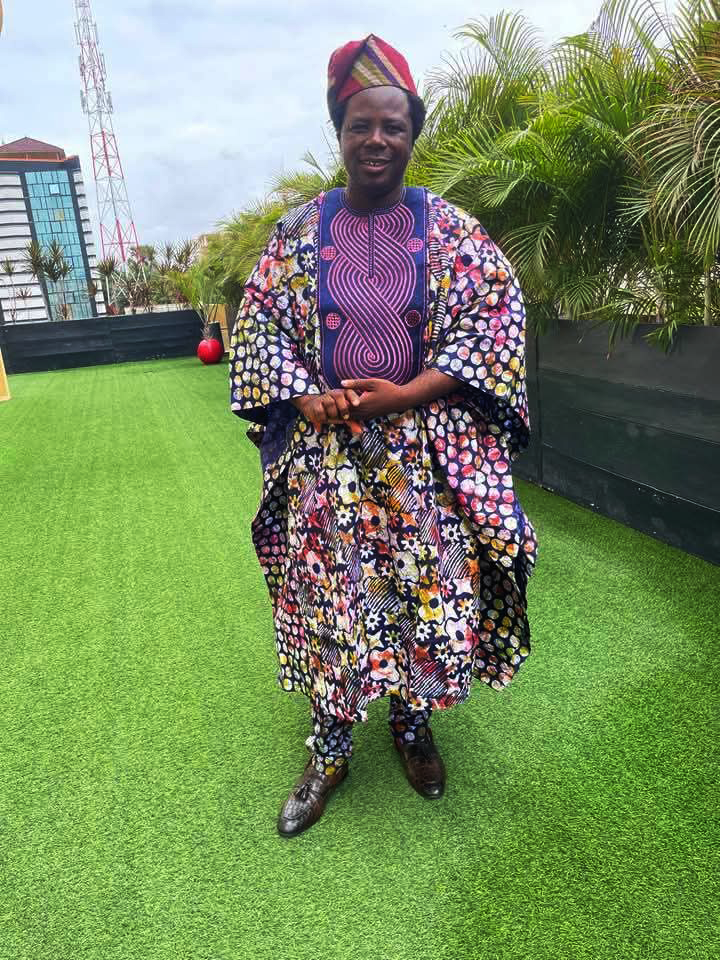
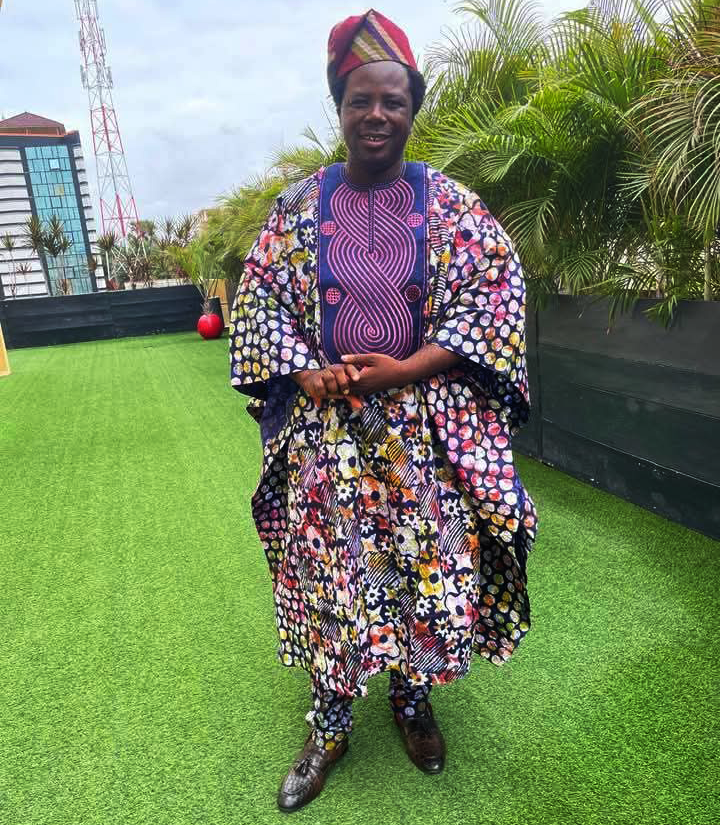
finishing touches complete ecept send message and social media links

diff --git a/index.html b/index.html
@@ -12,6 +12,7 @@
     <link rel="stylesheet" href="styles/experience.css">
     <link rel="stylesheet" href="styles/projects.css">
     <link rel="stylesheet" href="styles/skills.css">
+        <link rel="stylesheet" href="styles/about.css">
     <link rel="stylesheet" href="styles/contact.css">
     <link rel="stylesheet" href="styles/footer.css">
     <link rel="stylesheet" href="styles/animations.css">
@@ -67,13 +68,11 @@
 
   <div class="overall-container">
 
-       <!--IMAGE AND ABOUT-->
-
        <!-- Hero Section -->
        <section id="hero" class="hero-section">
             <div class="hero-content">
                 <div class="hero-image">
-                    <img src="datas/personal/main.jpg" alt="Dr. Hon. Olusola Akinbode">
+                    <img src="datas/personal/main-nobg.png" alt="Dr. Hon. Olusola Akinbode">
                 </div>
                 <div class="hero-text">
                     <h1>Dr. Hon. Olusola Akinbode, Ph.D</h1>
@@ -324,7 +323,7 @@
                             <img src="datas/key-activities/june2025-african-borderday-celerbation3.png" alt="African Border Day">
                         </div>
                         <div class="image-container">
-                            <img src="datas/key-activities/june2025-african-borderday-celerbation4.png" alt="African Border Day">
+                            <img src="datas/key-activities/june2025-african-borderday-celerbation6.png" alt="African Border Day">
                         </div>
                     </div>
                     <p class="activity-description">In June this year, Dr Olusola Akinbode participated at the 2025 African Border Day Celebration and also had the privilege of speaking on behalf of all Chairmen whose local government shares border with international countries in Nigeria.</p>

diff --git a/styles/shared.css b/styles/shared.css
@@ -1,6 +1,7 @@
 /* Common Section Styles */
 .section {
-    padding: 5rem 0;
+    padding: 3em 0;
+    /*background-color: #1a1a2e;*/
 }
 
 .section-title {
@@ -32,77 +33,4 @@
 @keyframes glow {
     0%, 100% { opacity: 0.5; }
     50% { opacity: 1; }
-}
-
-/* About Stats */
-.about-content {
-    max-width: 800px;
-    margin: 0 auto;
-}
-
-.bio-container {
-    display: flex;
-    align-items: center;
-    gap: 3rem;
-    margin-bottom: 3rem;
-}
-
-.bio-image {
-    flex: 0 0 300px;
-    border-radius: 20px;
-    overflow: hidden;
-    box-shadow: 0 10px 30px rgba(0, 0, 0, 0.1);
-}
-
-.bio-image img {
-    width: 100%;
-    height: auto;
-    transition: transform 0.4s ease;
-}
-
-.bio-image:hover img {
-    transform: scale(1.05);
-}
-
-.bio {
-    flex: 1;
-    text-align: left;
-    font-size: 1.1rem;
-    line-height: 1.6;
-}
-
-@media (max-width: 768px) {
-    .bio-container {
-        flex-direction: column;
-        text-align: center;
-    }
-    
-    .bio-image {
-        flex: 0 0 auto;
-        max-width: 250px;
-        margin: 0 auto;
-    }
-    
-    .bio {
-        text-align: center;
-    }
-}
-
-.quick-stats {
-    display: grid;
-    grid-template-columns: repeat(3, 1fr);
-    gap: 2rem;
-    text-align: center;
-}
-
-.stat-item h3 {
-    font-size: 2.5rem;
-    color: #8670ef;
-    margin-bottom: 0.5rem;
-}
-
-@media (max-width: 840px) {
-    .quick-stats {
-        grid-template-columns: repeat(1, 1fr);
-    }
 }

diff --git a/styles/about.css b/styles/about.css
@@ -26,3 +26,76 @@
     margin-bottom: 0.5rem;
 }
 
+
+/* About Stats */
+.about-content {
+    max-width: 800px;
+    margin: 0 auto;
+}
+
+.bio-container {
+    display: flex;
+    align-items: center;
+    gap: 3rem;
+    margin-bottom: 3rem;
+}
+
+.bio-image {
+    flex: 0 0 300px;
+    border-radius: 20px;
+    overflow: hidden;
+    box-shadow: 0 10px 30px rgba(0, 0, 0, 0.1);
+}
+
+.bio-image img {
+    width: 100%;
+    height: auto;
+    transition: transform 0.4s ease;
+}
+
+.bio-image:hover img {
+    transform: scale(1.05);
+}
+
+.bio {
+    flex: 1;
+    text-align: left;
+    font-size: 1.1rem;
+    line-height: 1.6;
+}
+
+@media (max-width: 768px) {
+    .bio-container {
+        flex-direction: column;
+        text-align: center;
+    }
+    
+    .bio-image {
+        flex: 0 0 auto;
+        max-width: 250px;
+        margin: 0 auto;
+    }
+    
+    .bio {
+        text-align: center;
+    }
+}
+
+.quick-stats {
+    display: grid;
+    grid-template-columns: repeat(3, 1fr);
+    gap: 2rem;
+    text-align: center;
+}
+
+.stat-item h3 {
+    font-size: 2.5rem;
+    color: #8670ef;
+    margin-bottom: 0.5rem;
+}
+
+@media (max-width: 840px) {
+    .quick-stats {
+        grid-template-columns: repeat(1, 1fr);
+    }
+}

diff --git a/styles/projects.css b/styles/projects.css
@@ -3,7 +3,7 @@
     display: grid;
     grid-template-columns: repeat(auto-fit, minmax(350px, 1fr));
     gap: 2.5rem;
-    padding: 1rem;
+    padding: 1.5em;
 }
 
 .project-card {
@@ -21,7 +21,7 @@
 
 .project-card h3 {
     color: #8670ef;
-    padding: 1.5rem;
+    padding: 1em;
     margin: 0;
     font-size: 1.5rem;
 }
@@ -30,20 +30,21 @@
     display: grid;
     grid-template-columns: 1fr 1fr;
     gap: 1rem;
-    padding: 0 1.5rem;
+    padding: 0 1em;
 }
 
 .image-container {
     position: relative;
     border-radius: 10px;
     overflow: hidden;
-    aspect-ratio: 16/9;
+    aspect-ratio: 16/14;
+    /*height: 15rem;*/
 }
 
 .image-container img {
     width: 100%;
     height: 100%;
-    object-fit: cover;
+    object-fit: fill;
     transition: all 0.4s ease;
 }
 
@@ -69,4 +70,14 @@
     .project-images {
         grid-template-columns: 1fr;
     }
+}
+
+@media (max-width: 500px) {
+.projects-grid {
+    padding: 0;
+}
+
+.project-images {
+    padding: 0;
+}
 }

diff --git a/styles/project-overview.css b/styles/project-overview.css
@@ -4,6 +4,7 @@
     grid-template-columns: 1fr 1fr;
     gap: 3rem;
     margin-bottom: 4rem;
+
     background: rgba(134, 112, 239, 0.1);
     padding: 2rem;
     border-radius: 20px;
@@ -20,7 +21,7 @@
 .overview-image img {
     width: 100%;
     height: 100%;
-    object-fit: cover;
+object-fit: fill;
 }
 
 .project-list {
@@ -63,8 +64,22 @@
     color: #8670ef;
 }
 
+@media (max-width: 990px) {
+.overview-image img {
+  object-fit: fill;
+
+}
+}
+
 @media (max-width: 768px) {
     .project-overview {
         grid-template-columns: 1fr;
+    }
+}
+
+
+@media (max-width: 500px) {
+    .project-list {
+        padding: 0;
     }
 }

diff --git a/styles/key-activities.css b/styles/key-activities.css
@@ -12,7 +12,7 @@
     overflow: hidden;
     transition: transform 0.3s ease, box-shadow 0.3s ease;
     border: 1px solid rgba(134, 112, 239, 0.2);
-    padding: 2rem;
+    padding: 2em;
 }
 
 .activity-card:hover {
@@ -37,7 +37,7 @@
     position: relative;
     border-radius: 10px;
     overflow: hidden;
-    aspect-ratio: 16/9;
+    aspect-ratio: 16/16;
 }
 
 .activity-images img {
@@ -64,5 +64,15 @@
 
     .activity-images {
         gap: 0.5rem;
+    }
+}
+
+@media (max-width: 500px) {
+    .activities-grid {
+        padding: 0;
+    }
+
+    .activity-card {
+        padding: 0.5em;
     }
 }

diff --git a/styles/hero.css b/styles/hero.css
@@ -19,7 +19,8 @@
 }
 
 .hero-image img {
-    max-width: 80%;
+  
+    max-width: 70%;
     border-radius: 20px;
     box-shadow: 0 10px 30px rgba(0, 0, 0, 0.1);
 }
@@ -72,7 +73,7 @@
     }
 
     .hero-image {
-        max-width: 300px;
+        max-width: 500px;
         margin: 0 auto;
     }
 
@@ -109,6 +110,7 @@
     .hero-buttons {
       padding: 0;
     }
+    
 .primary-btn, .secondary-btn {
     padding: 1em 10px;
 }

diff --git a/styles/experience.css b/styles/experience.css
@@ -7,7 +7,7 @@
 
 .experience-item {
     background: rgba(134, 112, 239, 0.1);
-    padding: 2rem;
+    padding: 2em;
     border-radius: 15px;
     transition: all 0.3s ease;
     border: 1px solid rgba(134, 112, 239, 0.2);
@@ -32,4 +32,9 @@
 .duration {
     opacity: 0.7;
     font-size: 0.9rem;
+}
+@media (max-width: 500px) {
+.experience-item {
+    padding: 1em
+}
 }
